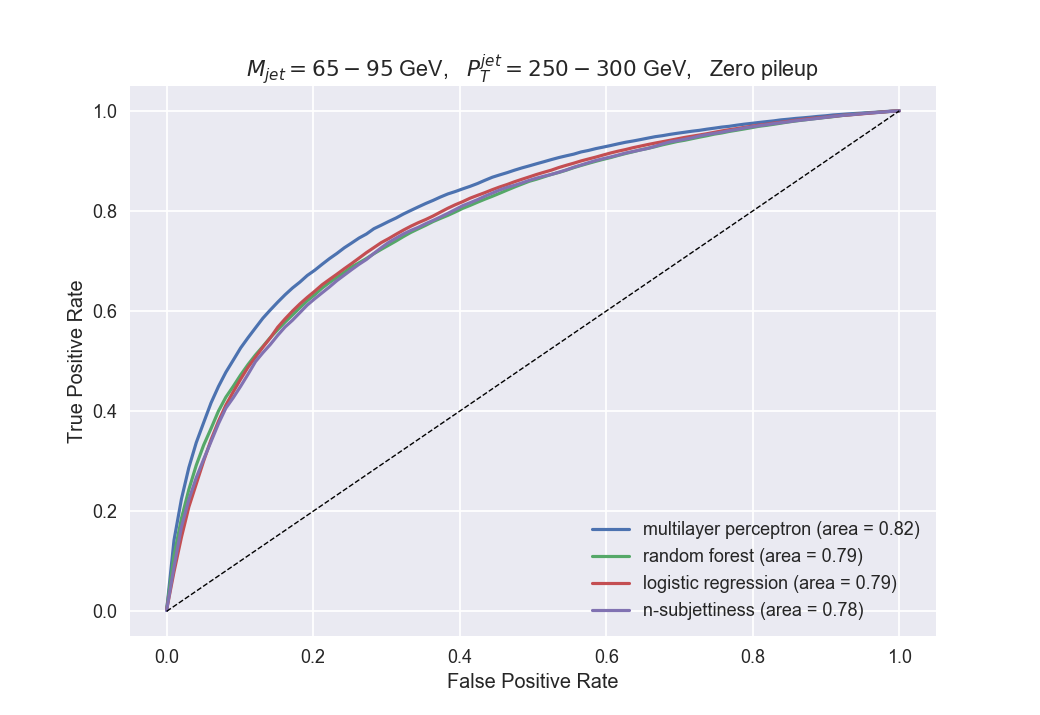
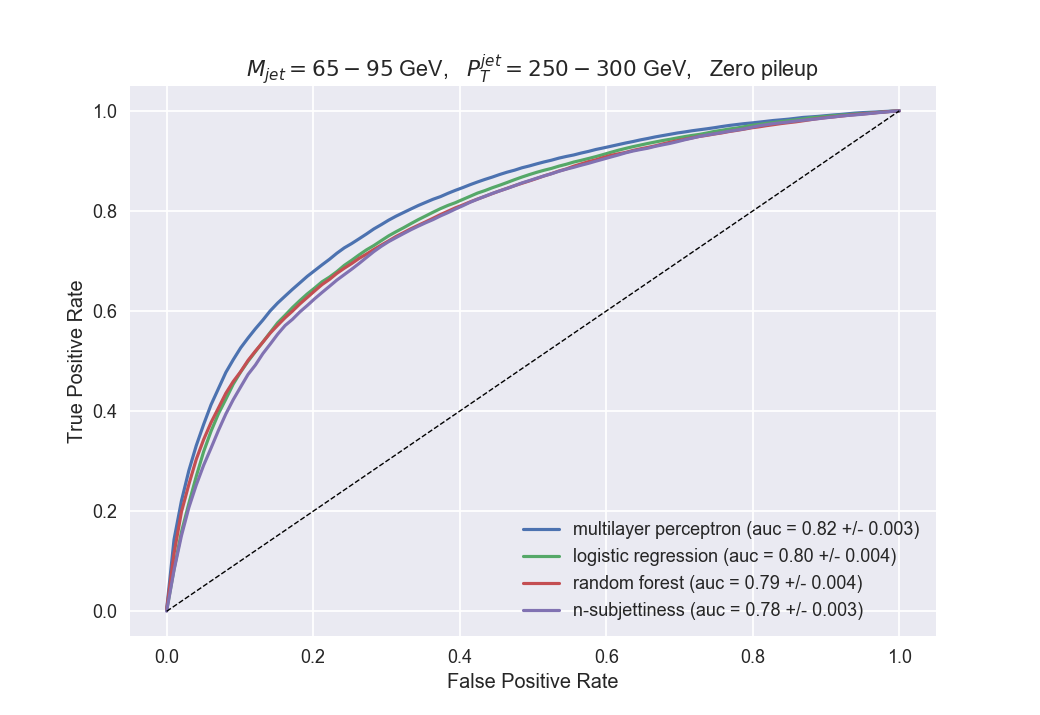
Add full classifier module

diff --git a/modules/full_classifier.py b/modules/full_classifier.py
@@ -1,0 +1,152 @@
+from pandas import read_csv
+import numpy as np
+import os
+
+# matplotlib without interactive UI
+import matplotlib
+matplotlib.use('Agg')
+
+try:
+    # OPTIONAL
+    import seaborn
+except ImportError:
+    pass
+
+# Location of the data directory
+DATADIR = "data"
+
+# PT of the data sample
+PTBIN = "250-300"
+
+# Sample names
+SIG = os.path.join(DATADIR, "signal_PU0_13TeV_MJ-65-95_PTJ-" + PTBIN + ".txt")
+BKG = os.path.join(DATADIR, "backgr_PU0_13TeV_MJ-65-95_PTJ-" + PTBIN + ".txt")
+
+
+def load_data():
+    df_sig = read_csv(SIG, delim_whitespace=True)
+    df_bkg = read_csv(BKG, delim_whitespace=True)
+    return df_sig, df_bkg
+
+
+def concatenate_sig_bkg(df_sig, df_bkg):
+    y = np.concatenate((np.ones(df_sig.shape[0], dtype='bool'),
+                        np.zeros(df_bkg.shape[0], dtype='bool')))
+    X = np.concatenate((df_sig, df_bkg))
+    return X, y
+
+
+def reduce_dimensionality(X, n):
+    # Principal component analysis
+    # The option whiten=True ensures normalized components
+    from sklearn.decomposition import PCA
+    pca = PCA(n_components=n,
+              whiten=True,
+              svd_solver='randomized',
+              random_state=1)
+    X_pca = pca.fit_transform(X)
+    return X_pca
+
+
+def split_generator(X, y):
+    # Stratified shuffle split for cross validation
+    # Number of splits = 10
+    # Test sample = 30%
+    from sklearn.model_selection import StratifiedShuffleSplit
+    split = StratifiedShuffleSplit(n_splits=10, test_size=0.3, random_state=42)
+    for train_index, test_index in split.split(X, y):
+        X_train, X_test = X[train_index], X[test_index]
+        y_train, y_test = y[train_index], y[test_index]
+        yield X_train, X_test, y_train, y_test
+
+
+def interpolate_rates(fpr, tpr):
+    # ROC curve with 100 steps
+    mean_fpr = np.linspace(0, 1, 100)
+    mean_tpr = np.interp(mean_fpr, fpr, tpr)
+    return mean_fpr, mean_tpr
+
+
+def classifiers(X_train, X_test, y_train, y_test):
+    # Import some classifiers
+    from sklearn.neural_network import MLPClassifier
+    from sklearn.ensemble import RandomForestClassifier
+    from sklearn.linear_model import LogisticRegression
+
+    # Import ROC curve metric
+    from sklearn.metrics import roc_curve, auc
+
+    # Dictionary to save the results
+    results = {}
+
+    # Multilayer perceptron
+    clf = MLPClassifier(solver='lbfgs',
+                        hidden_layer_sizes=(5, ),
+                        random_state=42)
+    y_prob = clf.fit(X_train, y_train).predict_proba(X_test)
+    fpr, tpr, __ = roc_curve(y_test, y_prob[:, 1])
+    fpr, tpr = interpolate_rates(fpr, tpr)
+    results["Multilayer Perceptron"] = [0, fpr, tpr, auc(fpr, tpr)]
+
+    # Logistic Regression
+    clf = LogisticRegression(random_state=42)
+    y_prob = clf.fit(X_train, y_train).predict_proba(X_test)
+    fpr, tpr, __ = roc_curve(y_test, y_prob[:, 1])
+    fpr, tpr = interpolate_rates(fpr, tpr)
+    results["Logistic Regression"] = [1, fpr, tpr, auc(fpr, tpr)]
+
+    # Random Forest
+    clf = RandomForestClassifier(n_estimators=24,
+                                 max_depth=9,
+                                 random_state=42)
+    y_prob = clf.fit(X_train, y_train).predict_proba(X_test)
+    fpr, tpr, __ = roc_curve(y_test, y_prob[:, 1])
+    fpr, tpr = interpolate_rates(fpr, tpr)
+    results["Random Forest"] = [2, fpr, tpr, auc(fpr, tpr)]
+
+    return results
+
+
+def custom_ax(ax, fpr, tpr, area, title):
+    ax.set_xlabel("False Positive Rate")
+    ax.set_ylabel("True Positive Rate")
+    ax.set_title(title)
+    ax.plot(fpr, tpr, label="auc = {:.2f}".format(area))
+    ax.legend(loc="lower right", title="area under curve (auc)")
+
+
+def plot_roc_curves(X, y):
+    import matplotlib.pyplot as plt
+    fig, ax = plt.subplots(1, 3, sharey=True, figsize=(16, 5))
+    fig.suptitle("Model evaluation via stratified shuffle split")
+    # Iterate over the splits
+    for X_train, X_test, y_train, y_test in split_generator(X, y):
+        # Iterate over the classifiers
+        results = classifiers(X_train, X_test, y_train, y_test).items()
+        for title, result in results:
+            i, fpr, tpr, area = result[0], result[1], result[2], result[3]
+            custom_ax(ax[i], fpr, tpr, area, title)
+
+    return plt
+
+
+if __name__ == '__main__':
+    # Load the data sets
+    print("\nLoading signal data from {}".format(SIG))
+    print("\nLoading backgr data from {}".format(BKG))
+    df_sig, df_bkg = load_data()
+
+    # Process data
+    print("\nProcessing {} signal and {} backgr samples".format(
+           len(df_sig.index), len(df_bkg.index)))
+    X, y = concatenate_sig_bkg(df_sig, df_bkg)
+
+    # Reduce dimensionality
+    X_pca = reduce_dimensionality(X, 60)
+    print("\nDimensionality reduction from {} to {} attributes".format(
+           X.shape[1], X_pca.shape[1]))
+
+    # Evaluate classifiers
+    print("\nEvaluating classifiers")
+    plot_roc_curves(X_pca, y).savefig('ml-vs-nsubjettiness.png')
+    print("\nResults: ml-vs-nsubjettiness.png\n")

diff --git a/modules/plot_roc_curve.py b/modules/plot_roc_curve.py
@@ -9,31 +9,36 @@ import seaborn as sns
 
 
 def evaluate_model(X, y, model):
-    sss = StratifiedShuffleSplit(n_splits=10, test_size=0.3, random_state=1)
+    sss = StratifiedShuffleSplit(n_splits=10, test_size=0.3, random_state=42)
     mean_tpr = np.zeros(100)
     mean_fpr = np.linspace(0, 1, 100)
+    scores = []
     for train_index, test_index in sss.split(X, y):
         X_train, X_test = X[train_index], X[test_index]
         y_train, y_test = y[train_index], y[test_index]
         probas_ = model.fit(X_train, y_train).predict_proba(X_test)
         # Compute ROC curve
         fpr, tpr, __ = roc_curve(y_test, probas_[:, 1])
+        scores += [auc(fpr, tpr)]
         mean_tpr += np.interp(mean_fpr, fpr, tpr)
 
     mean_tpr /= sss.get_n_splits(X, y)
-    mean_auc = auc(mean_fpr, mean_tpr)
-    return mean_tpr, mean_fpr, mean_auc
+    mean_auc = np.mean(scores)
+    erro_auc = np.std(scores)
+    return mean_tpr, mean_fpr, mean_auc, erro_auc
 
 
 def plot_roc_curve(X_img, y_img, X_tau, y_tau, ptbin):
     X_pca = pca_analysis(X_img, 60)
     names, models = model_definition()
     for name, model in zip(names, models):
-        tpr, fpr, roc_auc = evaluate_model(X_pca, y_img, model)
-        plt.plot(fpr, tpr, label=name + ' (area = %0.2f)' % roc_auc)
+        tpr, fpr, roc_auc, err = evaluate_model(X_pca, y_img, model)
+        plt.plot(fpr, tpr,
+                 label=name+' (auc = %0.2f +/- %.3f)' % (roc_auc, err))
 
-    tpr, fpr, roc_auc = evaluate_model(X_tau, y_tau, models[2])
-    plt.plot(fpr, tpr, label='n-subjettiness (area = %0.2f)' % roc_auc)
+    tpr, fpr, roc_auc, err = evaluate_model(X_tau, y_tau, models[2])
+    plt.plot(fpr, tpr,
+             label='n-subjettiness (auc = %0.2f +/- %.3f)' % (roc_auc, err))
     plt.plot([0, 1], [0, 1], color='black', lw=1, linestyle='--')
     plt.xlim([-0.05, 1.05])
     plt.ylim([-0.05, 1.05])

diff --git a/modules/model_definition.py b/modules/model_definition.py
@@ -5,18 +5,18 @@ from sklearn.linear_model import LogisticRegression
 
 def model_definition():
     names = ['multilayer perceptron',
-             'random forest',
-             'logistic regression']
+             'logistic regression',
+             'random forest']
 
     classifiers = [
         MLPClassifier(solver='lbfgs',
                       hidden_layer_sizes=(5, ),
-                      random_state=1),
+                      random_state=42),
+
+        LogisticRegression(random_state=42),
 
         RandomForestClassifier(n_estimators=24,
                                max_depth=9,
-                               random_state=1),
-
-        LogisticRegression(random_state=1)]
+                               random_state=42)]
 
     return names, classifiers

diff --git a/modules/pca_analysis.py b/modules/pca_analysis.py
@@ -9,7 +9,7 @@ def pca_analysis(X, n):
     return PCA(n_components=n,
                whiten=True,
                svd_solver='randomized',
-               random_state=1).fit_transform(X)
+               random_state=42).fit_transform(X)
 
 
 def plot_components(X, y):
